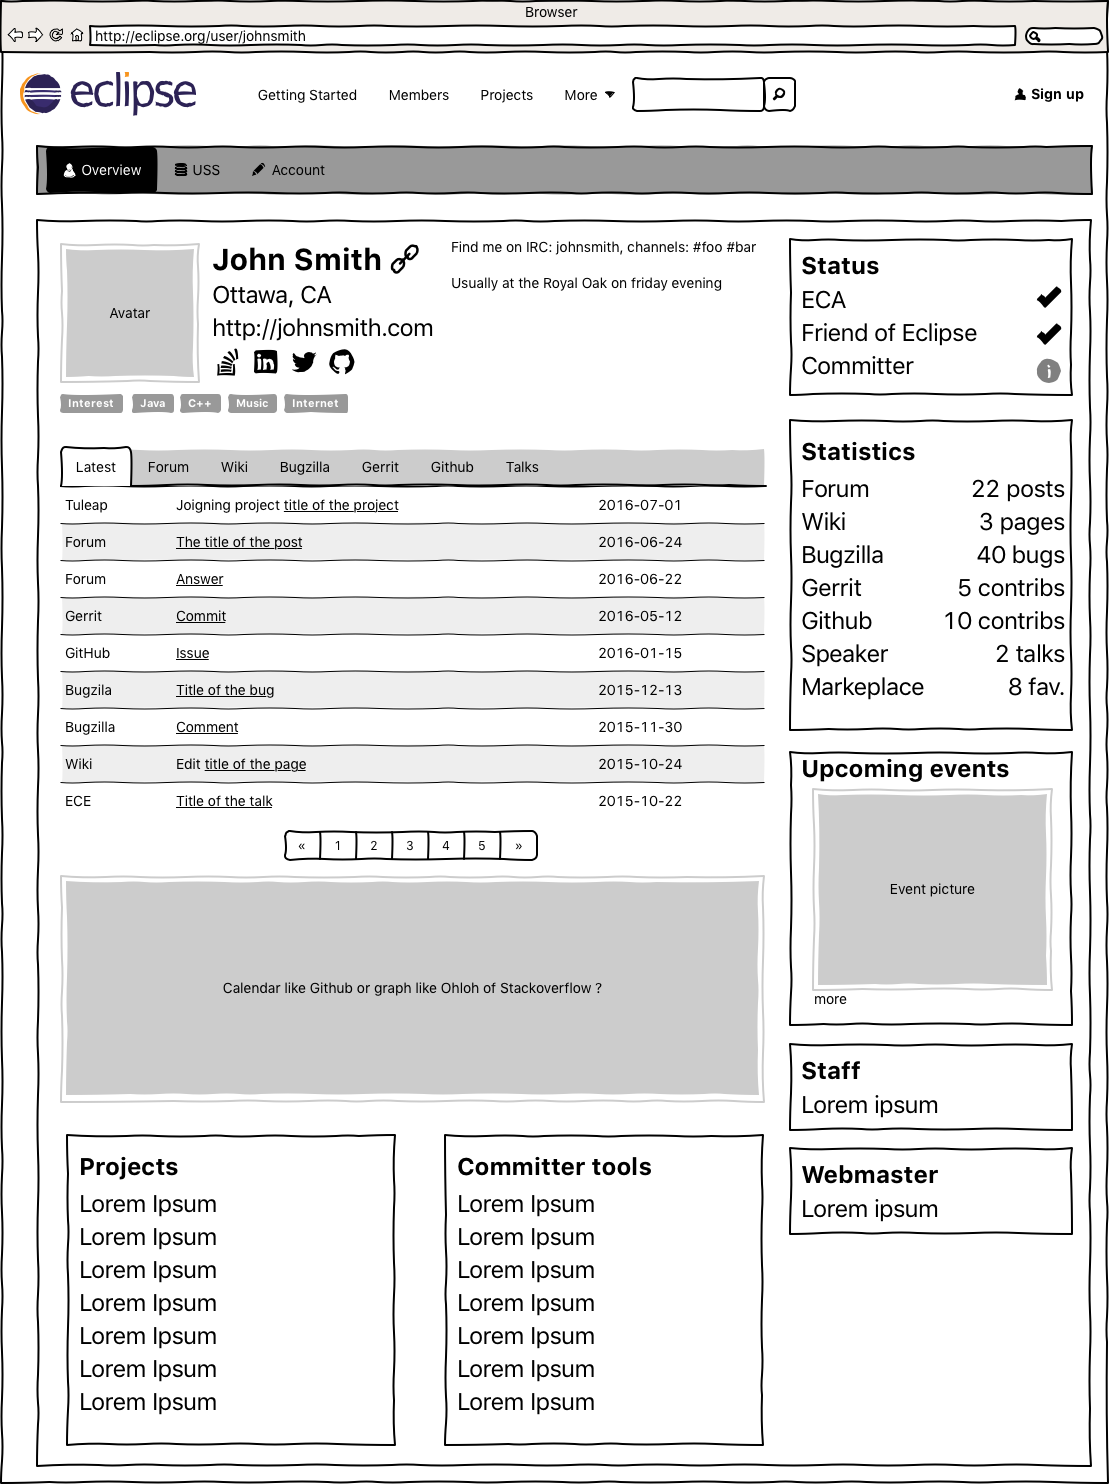
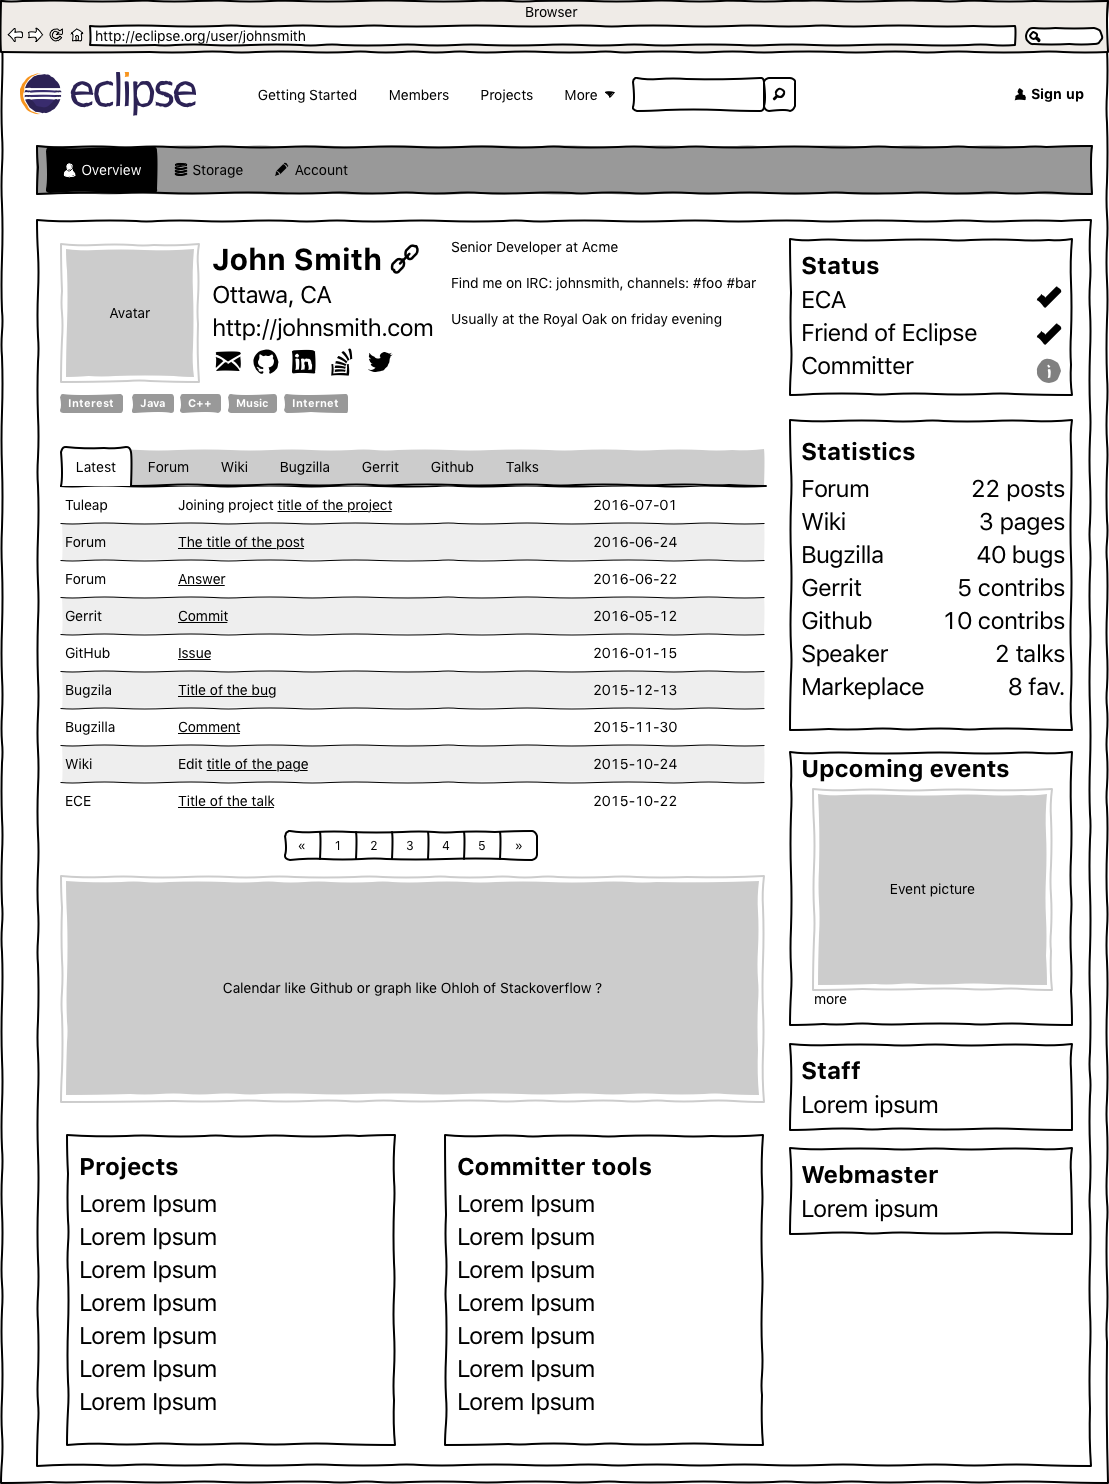
A few updates on Overview
Uss -> Storage
Typos

diff --git a/user-profile_files/resources/story.js b/user-profile_files/resources/story.js
@@ -8,16 +8,16 @@ var story = {
      "rect": [
       157,
       147,
-      236,
+      259,
       193
      ],
      "page": 1
     },
     {
      "rect": [
-      236,
+      259,
       147,
-      341,
+      364,
       193
      ],
      "page": 2
